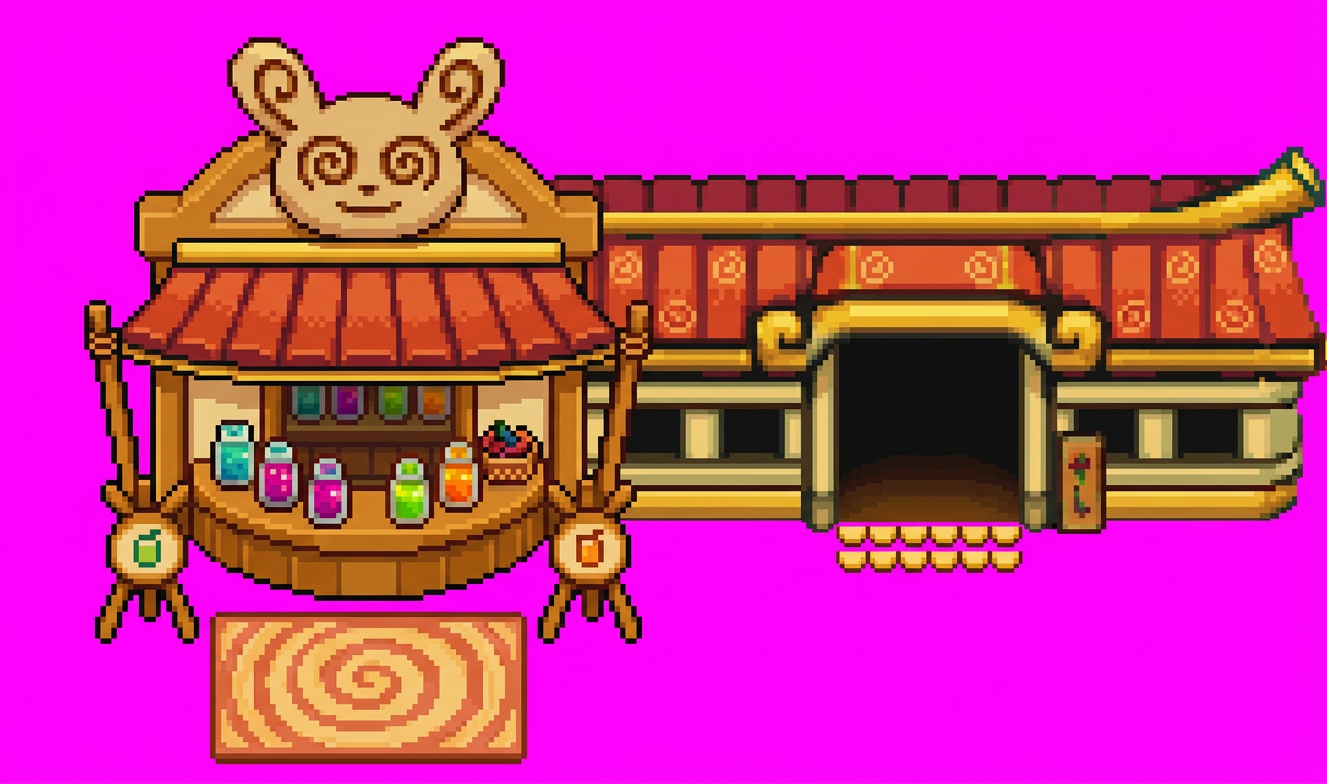
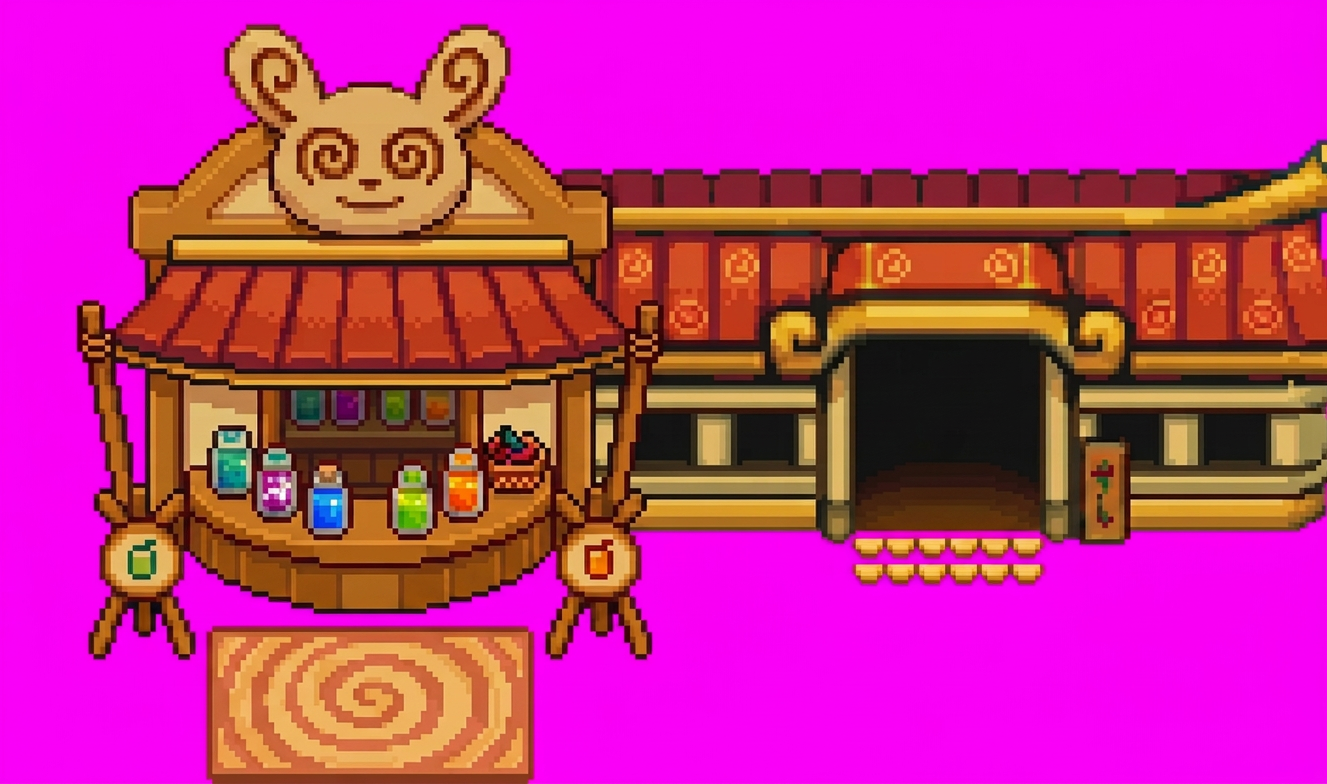
Sharpen the cafe to pixel-art quality and thin the kiosk lineart
The kiosk was outlined in heavy black on every plank and tile while the right
wing separates shapes by colour contrast: 1429 line segments against 253. It
is now drawn with 1px lines in a darker shade of each object's own colour.

Downscaling the 1327x784 generation with LANCZOS averaged pixels, blurring the
edges and washing the potion bottles out to sepia. Resampling by the dominant
colour of each block instead keeps every output pixel a real source colour, so
flat areas stay pure and the alpha stays binary. Semi-transparent edge pixels
drop from 2467 to 0 and the internal gradient rises from 10.2 to 12.6, against
15.3 for the Halcyon reference. Palette quantisation was tried and rejected.

diff --git a/tileset_pmd/detourer_magenta.py b/tileset_pmd/detourer_magenta.py
@@ -1,23 +1,30 @@
 from __future__ import annotations
 
-"""Detoure une generation faite sur fond magenta et la remet au format source.
+"""Detoure une generation faite sur fond magenta, en rendu pixel-art net.
 
 Demander au generateur un fond magenta uni (#FF00FF) evite le damier de
 transparence peint en dur, impossible a retirer proprement quand le sujet
 contient lui aussi des gris. Le magenta pur est absent de la palette du cafe,
-donc le detourage est net.
+donc le detourage est franc.
 
-Etapes :
-  1. masque magenta (teinte rouge+bleu forts, vert faible), dilate pour manger
-     le lisere de compression,
-  2. recadrage sur le sujet,
-  3. reprojection dans la bbox exacte de la source, pour garder taille et
-     position au pixel pres.
+Le generateur rend en ~1327x784 alors que la cible fait 425x251. Reduire en
+LANCZOS **moyenne** les pixels : les bords deviennent flous et les couleurs se
+delavent (les fioles du comptoir viraient au sepia). Mesures a l'appui :
+
+    reference Halcyon    0 % de pixels semi-transparents, gradient moyen 15,3
+    reduction LANCZOS    4,3 % de bords flous,            gradient moyen 10,2
+
+Or la generation est dessinee sur une grille reguliere d'environ 3,1 px. On
+reechantillonne donc par **couleur majoritaire** de chaque bloc : chaque pixel
+de sortie reprend une teinte reellement presente dans la source, jamais une
+moyenne. Les aplats restent purs, les bords restent tranches, l'alpha reste
+binaire comme sur un vrai sprite.
 
 Usage :
     python3 detourer_magenta.py <source.png> <generee.png> <sortie.png>
 """
 
+from collections import Counter
 from pathlib import Path
 import sys
 
@@ -29,8 +36,27 @@ def magenta_mask(rgb: np.ndarray) -> np.ndarray:
     r = rgb[:, :, 0].astype(int)
     g = rgb[:, :, 1].astype(int)
     b = rgb[:, :, 2].astype(int)
-    # Magenta : rouge et bleu eleves, vert nettement plus bas.
     return (r > 140) & (b > 140) & (g < 110) & ((r - g) > 60) & ((b - g) > 60)
+
+
+def resample_mode(sub: np.ndarray, tw: int, th: int) -> np.ndarray:
+    """Reduit en gardant, pour chaque bloc, sa couleur dominante."""
+    h, w, _ = sub.shape
+    out = np.zeros((th, tw, 4), dtype=np.uint8)
+    for y in range(th):
+        y0 = int(y * h / th)
+        y1 = max(y0 + 1, int((y + 1) * h / th))
+        for x in range(tw):
+            x0 = int(x * w / tw)
+            x1 = max(x0 + 1, int((x + 1) * w / tw))
+            blk = sub[y0:y1, x0:x1].reshape(-1, 4)
+            vis = blk[blk[:, 3] > 128]
+            # bloc majoritairement vide -> pixel transparent (alpha binaire)
+            if len(vis) * 2 < len(blk):
+                continue
+            col = Counter(map(tuple, vis[:, :3])).most_common(1)[0][0]
+            out[y, x] = (col[0], col[1], col[2], 255)
+    return out
 
 
 def main() -> int:
@@ -46,36 +72,34 @@ def main() -> int:
 
     arr = np.array(gen)
     bg = magenta_mask(arr)
-    print(f"Fond magenta detecte : {int(bg.sum())} px "
-          f"({100 * bg.mean():.1f}% de l'image)")
+    print(f"Fond magenta : {int(bg.sum())} px ({100 * bg.mean():.1f}%)")
 
-    # Le bord du sujet garde un lisere magenta du a la compression : on etend
-    # legerement le fond pour l'absorber.
-    m = Image.fromarray((bg * 255).astype(np.uint8), "L")
-    m = m.filter(ImageFilter.MaxFilter(3))
+    # Dilate de 1 px pour manger le lisere de compression autour du sujet.
+    m = Image.fromarray((bg * 255).astype(np.uint8), "L").filter(ImageFilter.MaxFilter(3))
     bg = np.array(m) > 127
 
-    rgba = np.dstack([arr, np.where(bg, 0, 255).astype(np.uint8)])
+    rgba = np.dstack([arr, np.where(bg, 0, 255)]).astype(np.uint8)
     cut = Image.fromarray(rgba, "RGBA")
-
     box = cut.getbbox()
     if box is None:
         print("Image vide apres detourage.")
         return 1
-    subject = cut.crop(box)
-    print(f"Sujet   : {subject.size} (bbox {box})")
+    sub = np.array(cut.crop(box)).astype(int)
+    print(f"Sujet   : {box[2] - box[0]}x{box[3] - box[1]} (bbox {box})")
 
     sbox = src.getbbox()
     tw, th = sbox[2] - sbox[0], sbox[3] - sbox[1]
-    scaled = subject.resize((tw, th), Image.LANCZOS)
+    small = resample_mode(sub, tw, th)
 
     out = Image.new("RGBA", src.size, (0, 0, 0, 0))
-    out.paste(scaled, (sbox[0], sbox[1]), scaled)
+    piece = Image.fromarray(small, "RGBA")
+    out.paste(piece, (sbox[0], sbox[1]), piece)
     out.save(out_p)
 
-    a = np.array(out)
-    print(f"Sortie  : {out.size}  transparent={int((a[:, :, 3] == 0).sum())} px"
-          f"  -> {out_p}")
+    al = np.array(out)[:, :, 3]
+    semi = int(((al > 8) & (al < 248)).sum())
+    print(f"Sortie  : {out.size}  transparent={int((al == 0).sum())} px  "
+          f"bords semi-transparents={semi}  -> {out_p}")
     return 0
 
 

diff --git a/spinda_cafe/README.md b/spinda_cafe/README.md
@@ -54,16 +54,38 @@ rouge/orange saturées, même liseré doré net, aplats au lieu de dégradés. L
 silhouette, la tête de Spinda, le comptoir, les fioles, le panier, les mâts et
 le tapis gardent leurs positions.
 
-### Détourage du fond
+### Affinage du lineart
 
-Le générateur renvoie un PNG agrandi **sans canal alpha**. Sur fond de damier,
-celui-ci est peint en dur et reste indétourable proprement, puisque le sujet
-contient lui aussi des gris.
+Le kiosque était cerné de gros traits noirs épais — chaque planche du comptoir
+et chaque tuile étaient soulignées — alors que l'aile droite sépare ses formes
+par contraste de couleur, avec des traits fins voire absents. Mesuré : 25,8 %
+de pixels sombres à gauche contre 20,8 % à droite, et surtout 1 429 segments de
+trait à gauche contre 253 à droite.
 
-La parade : demander la génération sur un **fond magenta uni (#FF00FF)**, couleur
-absente de la palette du café. `../tileset_pmd/detourer_magenta.py` isole ce fond,
-dilate le masque de 1 px pour absorber le liseré de compression, puis reprojette
-le sujet dans la bbox exacte de la source.
+Le kiosque a été redessiné avec des traits d'1 px dans une teinte plus foncée
+de la couleur de l'objet (brun sombre pour le bois, rouge sombre pour le toit)
+au lieu du noir.
+
+### Détourage du fond, en qualité pixel-art
+
+Le générateur rend en ~1327×784 pour une cible de 425×251. Réduire en LANCZOS
+**moyenne** les pixels : les bords deviennent flous et les couleurs se délavent
+(les fioles viraient au sépia). Comparaison avec la référence Halcyon :
+
+| | bords semi-transparents | gradient interne moyen |
+|---|---|---|
+| Référence Halcyon | **0** | 15,3 |
+| Réduction LANCZOS | 2 467 (4,3 %) | 10,2 |
+| **Rendu final** | **0** | **12,6** |
+
+La génération est dessinée sur une grille régulière d'environ 3,1 px.
+`../tileset_pmd/detourer_magenta.py` rééchantillonne donc par **couleur
+majoritaire** de chaque bloc : chaque pixel de sortie reprend une teinte
+réellement présente dans la source, jamais une moyenne. Les aplats restent
+purs, les bords tranchés, et l'alpha est binaire comme sur un vrai sprite.
+
+Réduire la palette (quantification à 48 couleurs) a été essayé et **écarté** :
+cela tuait les couleurs des fioles et faisait virer l'ensemble au sépia.
 
 ## Fichiers produits
 
